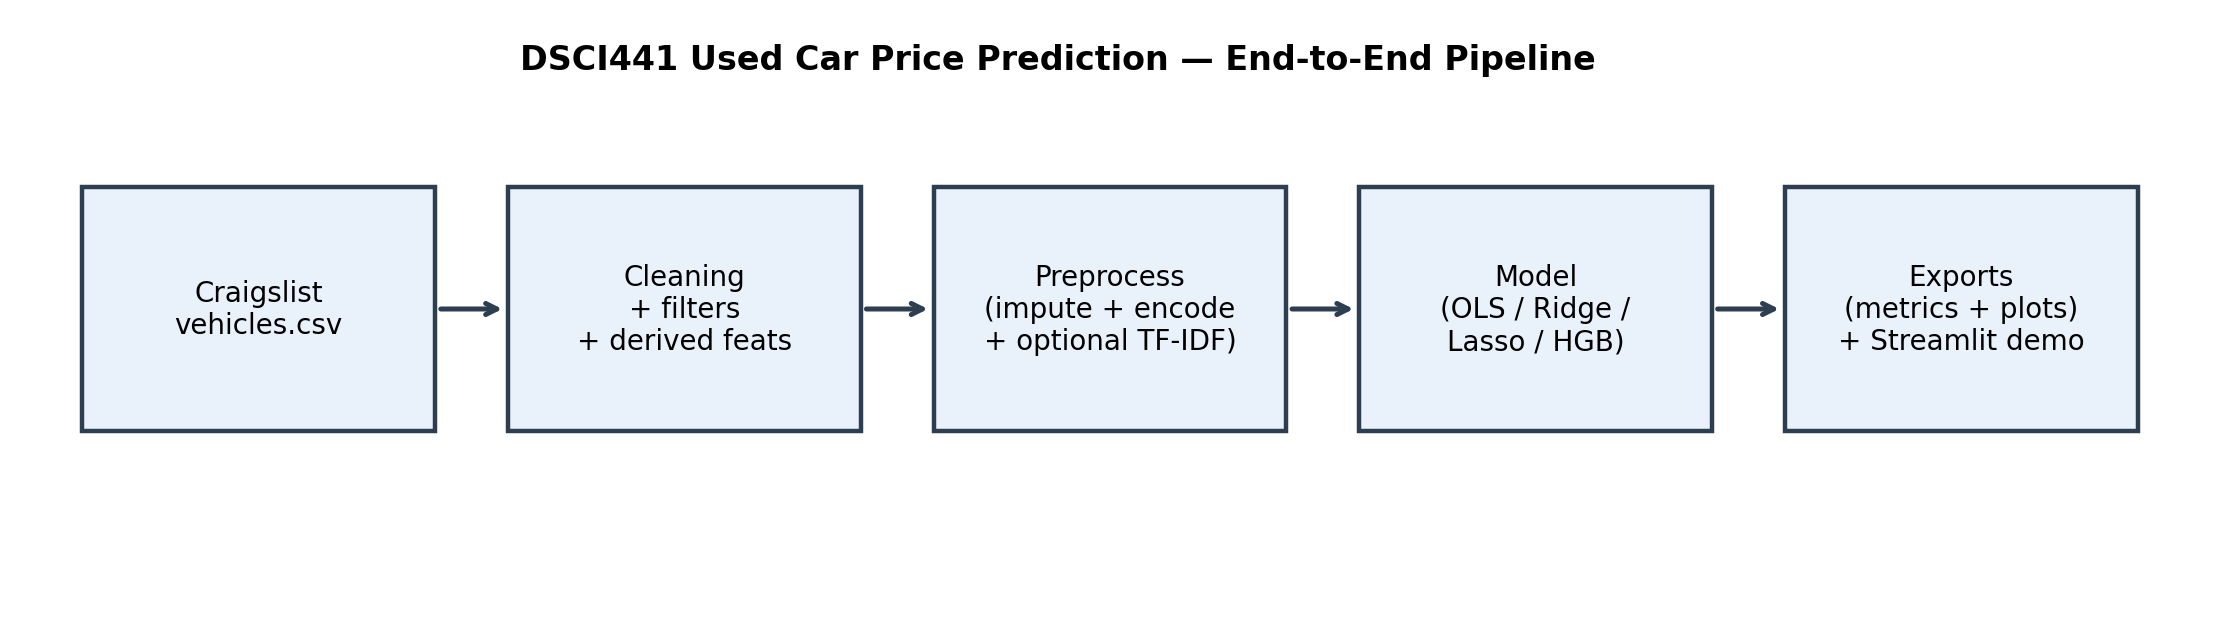
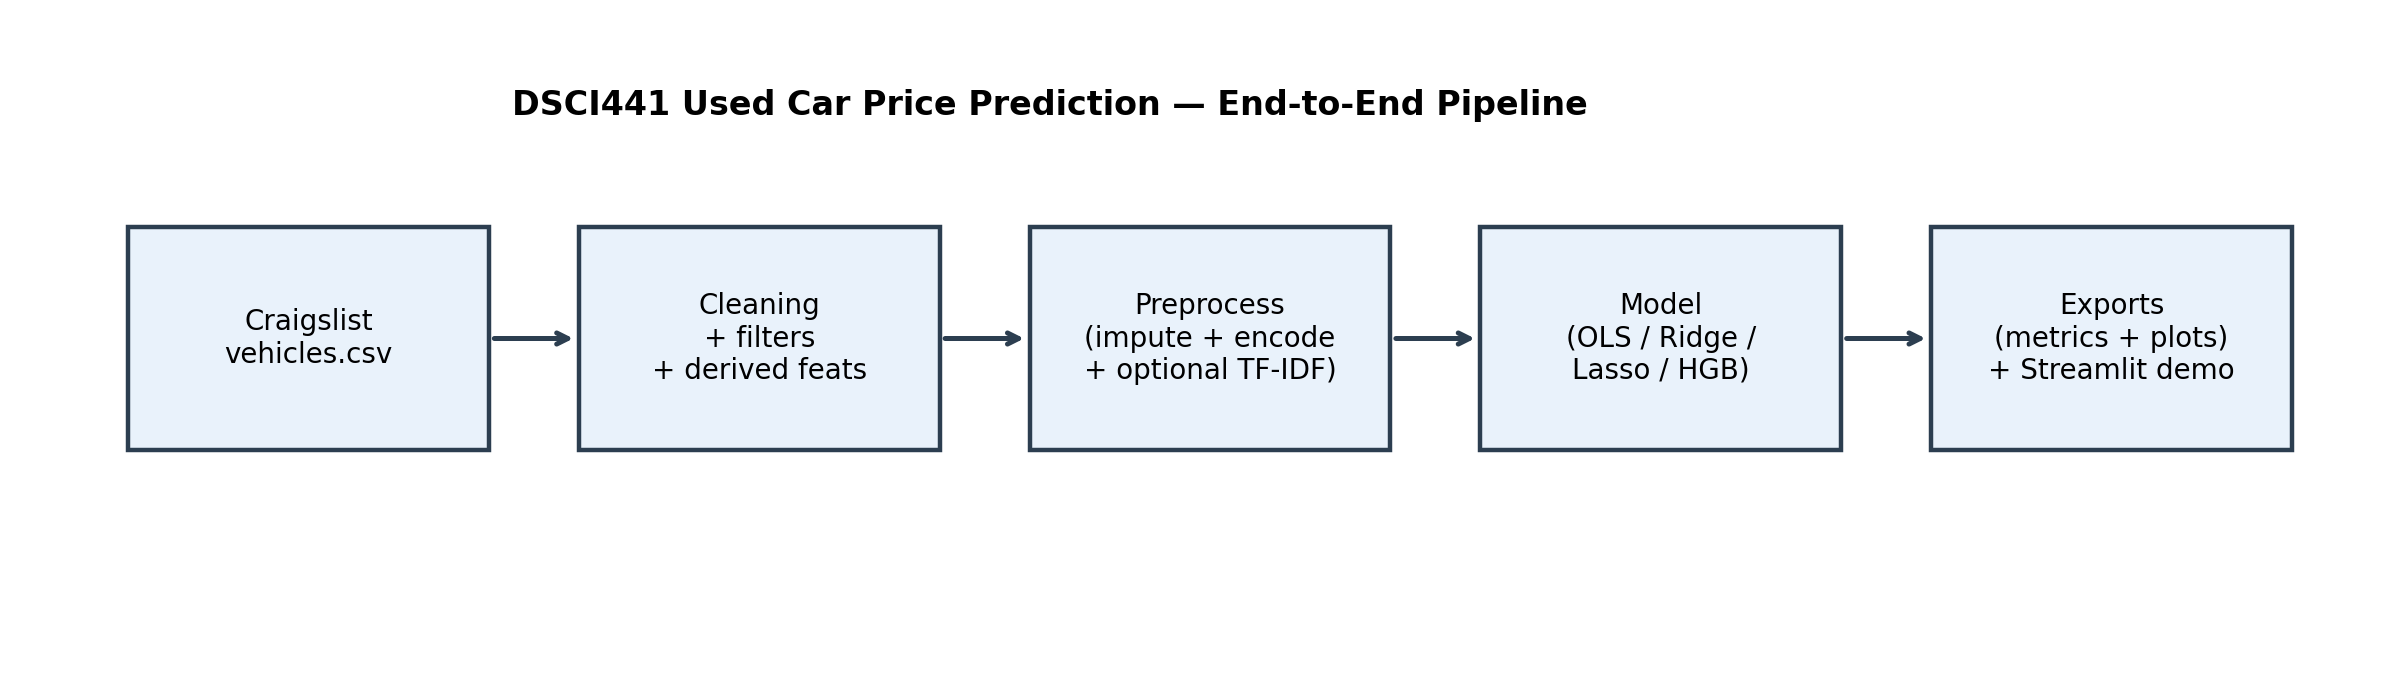
Improve pipeline overview rendering

Changed region(s): [[0.0311, 0.2763, 0.9635, 0.706], [0.2176, 0.0614, 0.7149, 0.1842]]

diff --git a/scripts/make_pipeline_figure.py b/scripts/make_pipeline_figure.py
@@ -25,15 +25,17 @@ def _arrow(ax, start, end) -> None:
 def make_pipeline_figure(out_png: Path) -> None:
     out_png.parent.mkdir(parents=True, exist_ok=True)
 
-    fig, ax = plt.subplots(figsize=(11.2, 3.2))
+    fig, ax = plt.subplots(figsize=(12.0, 3.4))
+    fig.patch.set_facecolor("white")
     ax.set_axis_off()
-    ax.set_xlim(0, 1.05)
+    # Use a slightly wider x-range + manual margins to avoid any clipping in
+    # different renderers (e.g., GitHub previews).
+    ax.set_xlim(0, 1.15)
     ax.set_ylim(0, 1)
 
-    # Keep all boxes within [0, 1] so the right-most panel is not clipped.
-    w, h = 0.17, 0.42
-    y = 0.29
-    xs = [0.03, 0.235, 0.44, 0.645, 0.85]
+    w, h = 0.18, 0.42
+    y = 0.28
+    xs = [0.04, 0.265, 0.49, 0.715, 0.94]
 
     _box(ax, (xs[0], y), w, h, "Craigslist\nvehicles.csv")
     _box(ax, (xs[1], y), w, h, "Cleaning\n+ filters\n+ derived feats")
@@ -54,8 +56,8 @@ def make_pipeline_figure(out_png: Path) -> None:
         fontweight="bold",
     )
 
-    fig.tight_layout()
-    fig.savefig(out_png, dpi=200, bbox_inches="tight")
+    fig.subplots_adjust(left=0.02, right=0.98, top=0.90, bottom=0.12)
+    fig.savefig(out_png, dpi=200, facecolor=fig.get_facecolor())
     plt.close(fig)
 
 
